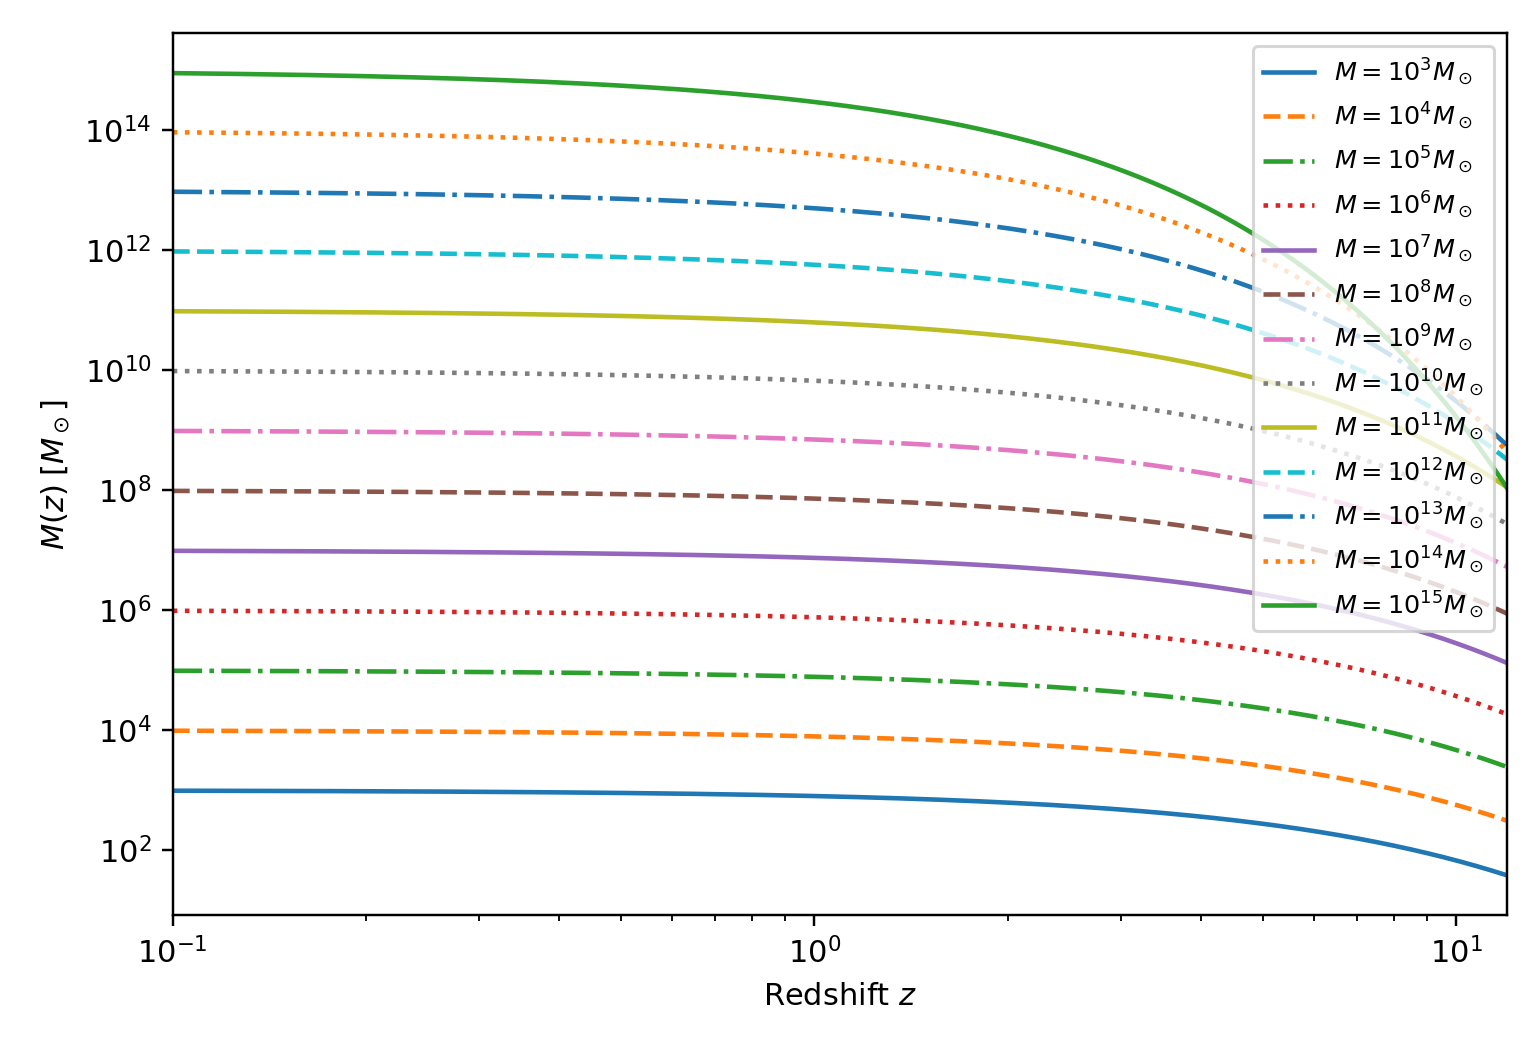
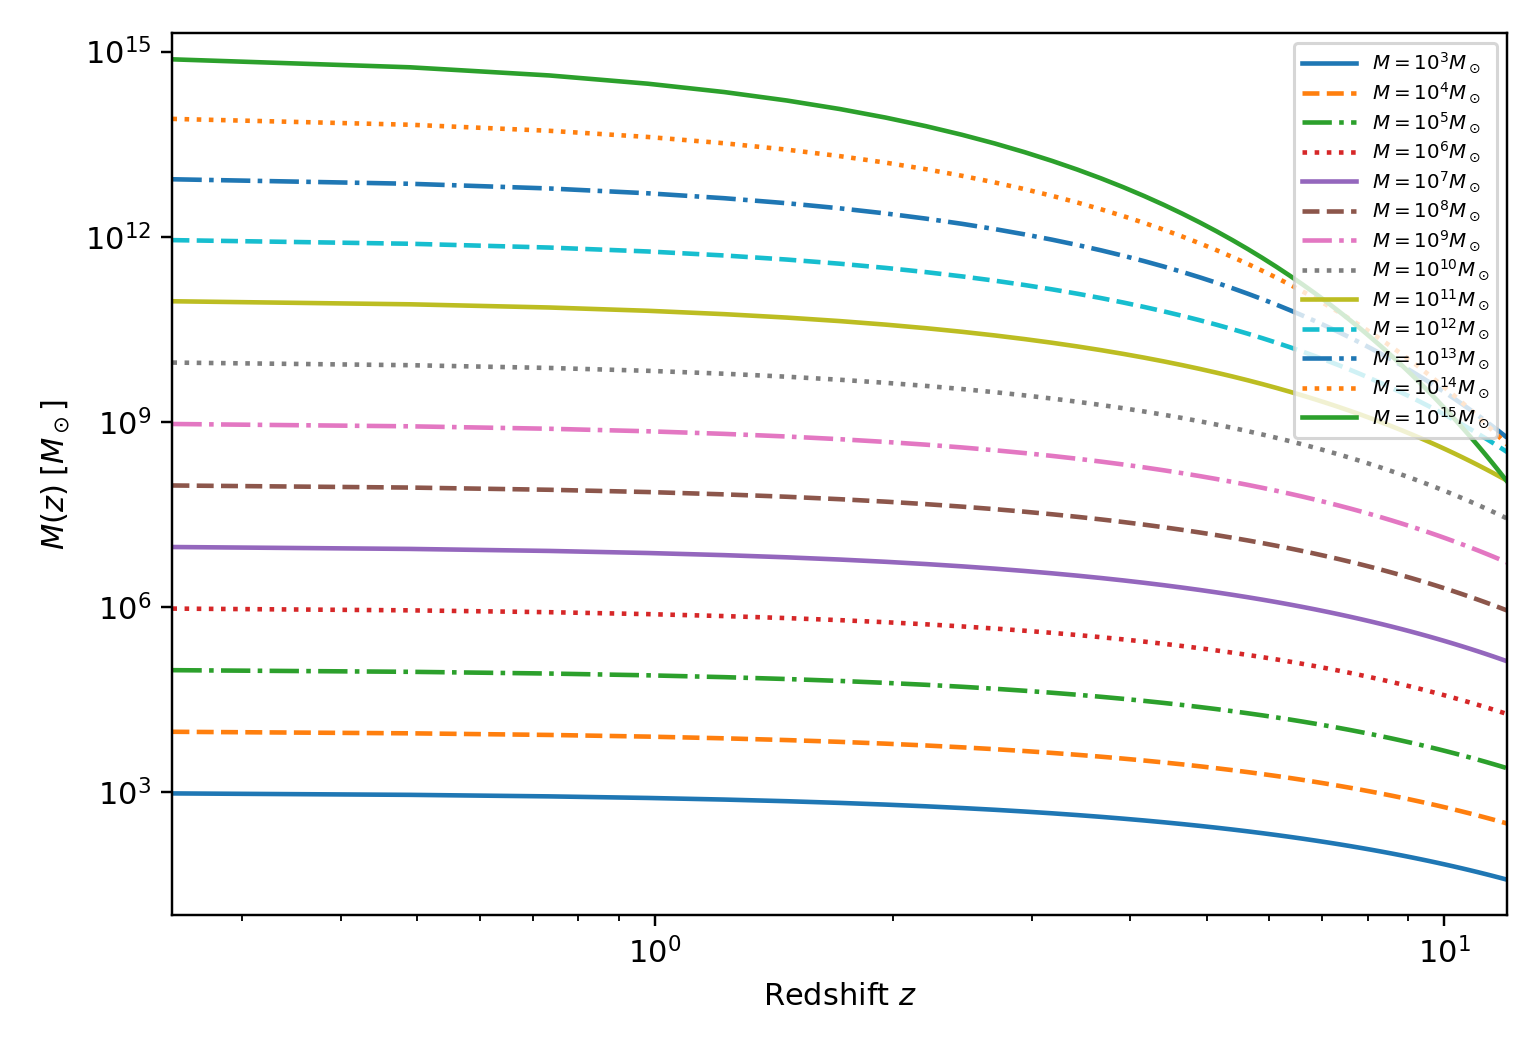
9.10日阶段任务启动

diff --git a/halohistory.py b/halohistory.py
@@ -6,7 +6,7 @@
 当前阶段完成三件事：
 
 1. 为 Fig. 9 的一组现今晕质量计算 M(z)；
-2. 使用该数据矩阵绘制并保存 Fig. 9。
+2. 使用该数据矩阵绘制并保存 Fig. 9；
 3. 计算同一批晕的 C(z)、R_vir(z) 与 R_s(z)。
 
 这里没有自动自检、断言或测试模块。
@@ -89,31 +89,57 @@ def calculate_mass_accretion_tracks(
 
 
 def make_figure9(output_directory):
-    """使用质量吸积轨迹矩阵绘制并保存论文 Fig. 9。"""
+    """使用质量吸积轨迹矩阵绘制并保存论文 Fig. 9 及对应数据。"""
     output_directory = Path(output_directory)
-    z = np.geomspace(0.1, 12.0, 400)
+
+    # 原图的矢量路径包含 z=0 加上 49 个等间距的正红移点，范围到 z=12。
+    # z=0 对确认 M(0)=M0 很重要，因此保留在 CSV 中；但 log(0) 不存在，
+    # 所以绘图时只使用 positive_redshift 选出的 49 个正红移点。
+    z = np.linspace(0.0, 12.0, 50)
     mass_tracks_msun = calculate_mass_accretion_tracks(z)
+    positive_redshift = z > 0.0
 
     figure, axis = plt.subplots(figsize=(7.0, 4.8))
     line_styles = ("-", "--", "-.", ":")
     for index, mass0_msun in enumerate(FIG9_PRESENT_DAY_MASSES_MSUN):
         exponent = int(np.log10(mass0_msun))
         axis.plot(
-            z,
-            mass_tracks_msun[index],
+            z[positive_redshift],
+            mass_tracks_msun[index, positive_redshift],
             linestyle=line_styles[index % len(line_styles)],
             label=rf"$M=10^{{{exponent}}}M_\odot$",
         )
 
     axis.set_xscale("log")
     axis.set_yscale("log")
-    axis.set_xlim(0.1, 12.0)
+    axis.set_xlim(z[1], 12.0)
+    axis.set_ylim(1.0e1, 2.0e15)
+    axis.set_yticks(10.0 ** np.arange(3.0, 16.0, 3.0))
     axis.set_xlabel(r"Redshift $z$")
     axis.set_ylabel(r"$M(z)\;[M_\odot]$")
-    axis.legend(loc="upper right", fontsize="small")
+    axis.legend(
+        loc="upper right",
+        fontsize=6.5,
+        handlelength=2.7,
+        labelspacing=0.25,
+    )
     figure.tight_layout()
     figure.savefig(output_directory / "fig9_reproduction.png", dpi=220)
     plt.close(figure)
+
+    # CSV 的第一列是 z，后面 13 列依次对应 M0=10^3--10^15 M_sun。
+    # 转置 mass_tracks_msun 后，每一行才会对应同一个红移，便于逐行读取。
+    mass_columns = [
+        f"mass_M0_{mass0_msun:.0e}_msun"
+        for mass0_msun in FIG9_PRESENT_DAY_MASSES_MSUN
+    ]
+    np.savetxt(
+        output_directory / "fig9_reproduction.csv",
+        np.column_stack((z, mass_tracks_msun.T)),
+        delimiter=",",
+        header=",".join(["z", *mass_columns]),
+        comments="",
+    )
     return z, mass_tracks_msun
 
 
@@ -137,15 +163,24 @@ def calculate_halo_structure_tracks(
     )
 
     cosmology = hc.LUDLOW_COSMOLOGY
+
+    # H0=100 h km/s/Mpc。因为 1 Mpc=1000 kpc，所以换成 km/s/kpc 后
+    # H0=0.1 h；再乘 E(z) 得到同一红移的 H(z)。
     hubble_km_s_kpc = 0.1 * cosmology["h"] * np.sqrt(
         cosmology["omega_m0"] * (1.0 + redshift_grid) ** 3
         + cosmology["omega_lambda0"]
     )
+
+    # 临界密度 rho_crit(z)=3 H(z)^2/(8 pi G)。当前 H 和 G 的单位组合
+    # 会让 rho_crit 直接得到 M_sun/kpc^3，不需要额外长度或质量换算。
     critical_density_msun_kpc3 = (
         3.0
         * hubble_km_s_kpc**2
         / (8.0 * np.pi * GRAVITATIONAL_CONSTANT_KPC_KM2_S2_MSUN)
     )
+
+    # M_200c=(4 pi/3)*200*rho_crit*R_vir^3，反解得到 R_vir；
+    # 浓度定义 C=R_vir/R_s，因此 R_s=R_vir/C。
     virial_radius_kpc = np.cbrt(
         3.0
         * mass_tracks_msun
@@ -162,9 +197,10 @@ def calculate_halo_structure_tracks(
 
 
 def main():
-    """生成 Fig. 9。"""
+    """生成 Fig. 9 及其曲线数据。"""
     make_figure9(Path(__file__).resolve().parent)
     print("Created fig9_reproduction.png")
+    print("Created fig9_reproduction.csv")
 
 
 if __name__ == "__main__":

diff --git a/halostructure.py b/halostructure.py
@@ -1,0 +1,63 @@
+"""NFW 暗物质晕结构：9 月 10 日阶段的逐步实现。
+
+本模块接收前两阶段已经得到的晕质量、浓度和红移，逐步构造：
+
+    (M, C, z) -> (R_vir, R_s, rho_s) -> rho_NFW(r) -> M(<r)
+
+当前第一小步只实现论文 Eq. (2) 的 NFW 特征密度对比。密度剖面、内部质量、
+PBH 速度分布和两体捕获率将在理解相应公式后逐个加入。
+
+这里没有自动自检、断言或独立测试模块。
+"""
+
+import numpy as np
+
+import haloconcentration as hc
+
+
+def nfw_characteristic_overdensity(concentration, virial_overdensity=200.0):
+    """返回 NFW 尺度密度相对于临界密度的无量纲比值。
+
+    论文 Eqs. (2)--(3) 为
+
+        delta_NFW(C) = (Delta / 3) * C**3 / g(C),
+        g(C) = ln(1 + C) - C/(1 + C),
+
+    其中论文采用 ``Delta=200``。因此尺度密度最终可以写成
+
+        rho_s(z) = rho_crit(z) * delta_NFW(C).
+
+    Parameters
+    ----------
+    concentration : float 或 array-like
+        NFW 浓度 C=R_vir/R_s。它是无量纲量。
+    virial_overdensity : float, optional
+        virial 半径定义中的平均密度倍数 Delta，默认使用论文的 200。
+
+    Returns
+    -------
+    delta_nfw : numpy.ndarray
+        NFW 特征密度对比，是无量纲量。输入可以是单个浓度或浓度数组。
+
+    Notes
+    -----
+    这里的 ``delta_nfw`` 不是峰高公式中的球形坍缩阈值
+    ``delta_sc = 1.686``。两者虽然都常被文献写成 delta_c，却描述完全不同的量。
+    """
+    concentration = np.asarray(concentration, dtype=float)
+
+    # g(C) 已在 haloconcentration.py 中实现。直接调用它可以确保浓度模块、
+    # 质量吸积模块与这里使用完全相同的 NFW 质量积分函数，而不是复制一份公式。
+    mass_integral_factor = hc.nfw_g(concentration)
+
+    # 从 M_vir=4*pi*rho_s*R_s^3*g(C) 与
+    # M_vir=(4*pi/3)*Delta*rho_crit*(C*R_s)^3 对比即可得到本式。
+    return (
+        virial_overdensity
+        * concentration**3
+        / (3.0 * mass_integral_factor)
+    )
+
+
+# TODO（下一小步）：实现 rho_crit(z) 和 rho_s(C,z)。
+# TODO（之后）：实现 rho_NFW(r)、M(<r)、特征速度和截断 Maxwell 分布。

diff --git a/晕模型-pbh晕内速度分布.md b/晕模型-pbh晕内速度分布.md
@@ -917,6 +917,95 @@ $$
 \text{重新进行联合的 }(r,v)\text{ 积分}.
 $$
 
+### 7.8 用速度尺度因子检验公式 (9) 的定义敏感性
+
+在进入 Jeans 或 Eddington 的完整径向模型以前，可以先做一个计算成本很低的敏感性检验。把论文公式 (9) 推广为
+
+$$
+\boxed{
+v_{\rm disp}(\kappa)=\kappa V_{\max}
+},
+$$
+
+并依次取
+
+$$
+\kappa=1,\quad \sqrt{2},\quad 2.
+$$
+
+这三个取值的含义并不相同：
+
+| $\kappa$ | 对应的解释 | 在复现中的角色 |
+|---:|---|---|
+| $1$ | 直接采用目标论文的 $v_{\rm disp}=V_{\max}$ | 论文原始基线，必须保留 |
+| $\sqrt{2}$ | 把 $V_{\max}$ 解释为单粒子 Maxwell 指数尺度；两个独立单粒子的相对速度尺度比它大 $\sqrt{2}$ | 首选的参数定义敏感性分支 |
+| $2$ | 把 $V_{\max}$ 字面解释为单粒子的一维标准差；相对速度 Maxwell 指数尺度为 $2\sigma_{1{\rm D}}$ | 更宽的定义歧义边界 |
+
+第二行也可以从理想等温关系理解。若近似采用
+
+$$
+V_c^2\simeq2\sigma_{1{\rm D}}^2,
+$$
+
+并令 $V_{\max}$ 代表特征圆周速度，则相对速度 Maxwell 指数尺度满足
+
+$$
+v_{\rm disp,rel}=2\sigma_{1{\rm D}}
+\simeq\sqrt{2}V_{\max}.
+$$
+
+但是必须注意，目标论文采用的是带有限上限和减常数项的 lowered Maxwell 分布。截断以后，参数 $v_{\rm disp}$ 不再严格等于分布的实际标准差；两个截断单粒子分布的严格卷积也不再恰好具有论文公式 (7) 的形式。因此，$\kappa=\sqrt{2}$ 和 $2$ 应被称为**定义敏感性检验**，不能直接称为已经证明的物理修正。
+
+每改变一次 $\kappa$，都必须用新的 $v_{\rm disp}(\kappa)$ 重新计算截断分布的归一化常数以及速度负矩，而不能只在最终俘获率上乘一个常数。可以定义
+
+$$
+\mathcal M_{-11/7}(\kappa)
+=
+\int_0^{v_{\rm vir}}
+P(v;\kappa)v^{-11/7}\,dv,
+$$
+
+以及相对于论文基线的单晕俘获率比值
+
+$$
+\boxed{
+S_\kappa(M,z)
+=
+\frac{\Gamma_{\rm halo}(\kappa;M,z)}
+{\Gamma_{\rm halo}(1;M,z)}
+}.
+$$
+
+如果暂时忽略 $v_{\rm vir}$ 截断，并把速度分布近似成只改变尺度的同族分布，则有数量级关系
+
+$$
+S_\kappa\approx\kappa^{-11/7}.
+$$
+
+于是
+
+$$
+S_{\sqrt{2}}\approx2^{-11/14}\simeq0.58,
+\qquad
+S_2\approx2^{-11/7}\simeq0.34.
+$$
+
+这表示在上述无截断尺度估计中，相对于较宽的速度分布，$\kappa=1$ 的论文基线可能分别给出约 $1.72$ 倍或 $2.97$ 倍的较高俘获率。实际数值必须使用论文的截断分布重新积分，因为 $v_{\rm vir}/v_{\rm disp}$ 也会随 $\kappa$ 改变。
+
+因此建议把高精度检验顺序写成
+
+$$
+\boxed{
+\begin{aligned}
+&\text{论文基线：}\kappa=1\\
+&\longrightarrow\text{定义敏感性：}\kappa=\sqrt{2},\,2\\
+&\longrightarrow\text{动力学改进：Jeans 或 Eddington 的局域 }P(v\mid r).
+\end{aligned}
+}
+$$
+
+前两步回答的是“公式 (9) 的速度尺度约定会带来多大数值影响”；最后一步才回答“真实晕内径向相空间结构会怎样改变 PBH 俘获率”。
+
 ---
 
 ## 8. 截断速度分布如何进入两体俘获率？

diff --git a/SIMULATING_PBH_MERGERS_精读与复现.md b/SIMULATING_PBH_MERGERS_精读与复现.md
@@ -507,10 +507,10 @@ $\Omega_{m0}$ 替换同时消除差异。
 
 ### 7.5 当前人工对照结果
 
-今天生成：
+当天生成：
 
-- `fig1_reproduction.png`；
-- `fig2_reproduction.png`；
+- `fig1_reproduction(1).png`；
+- `fig2_reproduction(1).png`；
 - 三份相应的 CSV 曲线数据。
 
 关键中间值为
@@ -535,3 +535,72 @@ $$
 Fig. 1 的 $10^{12}M_\odot$ 晕回溯至 $z=12$ 时质量约为
 $3.25\times10^8M_\odot$，与论文图中的数量级一致。当前图已经复现主要曲线
 形状和排序；精确百分比误差将在提取原图锚点后统一计算。
+
+## 八、2026-09-13：9月9日质量吸积史阶段验收
+
+本阶段代码位于 `halohistory.py`，并调用 `haloconcentration.py` 中已经完成的
+Ludlow16 浓度和 Appendix C 质量吸积函数，没有复制第二份浓度模型。
+
+### 8.1 已完成的计算链
+
+对于给定的现今质量 $M_0$ 和红移数组，代码依次计算
+
+$$
+M_0\longrightarrow (z_{-2},\alpha,\beta)
+\longrightarrow M(z)\longrightarrow C[M(z),z]
+\longrightarrow R_{\rm vir}(z)\longrightarrow R_s(z).
+$$
+
+其中
+
+$$
+H(z)=H_0\sqrt{\Omega_{m0}(1+z)^3+\Omega_{\Lambda0}},
+\qquad
+\rho_{\rm crit}(z)=\frac{3H(z)^2}{8\pi G},
+$$
+
+$$
+R_{\rm vir}(z)=
+\left[\frac{3M(z)}{4\pi\,200\rho_{\rm crit}(z)}\right]^{1/3},
+\qquad
+R_s(z)=\frac{R_{\rm vir}(z)}{C[M(z),z]}.
+$$
+
+公开输入质量使用 $M_\odot$，半径输出使用 kpc。代码中的
+$G=4.30091\times10^{-6}\,{\rm kpc}\,({\rm km/s})^2M_\odot^{-1}$，并把
+$H_0=100h\,{\rm km\,s^{-1}\,Mpc^{-1}}$ 换成
+$0.1h\,{\rm km\,s^{-1}\,kpc^{-1}}$，所以临界密度直接以
+$M_\odot/{\rm kpc}^3$ 表示。
+
+### 8.2 Fig. 9 与人工数值锚点
+
+`make_figure9` 使用 $M_0=10^3,10^4,\ldots,10^{15}M_\odot$，保存
+`fig9_reproduction.png` 和唯一一份对应的 `fig9_reproduction.csv`。CSV 保留
+$z=0$，图上的对数横轴只绘制 49 个正红移点，直至 $z=12$。
+
+以 $M_0=10^{12}M_\odot$ 为人工锚点，当前公开公式实现给出
+
+$$
+z_{-2}=3.183657,\qquad \alpha=0.223113,\qquad \beta=-0.717076,
+$$
+
+$$
+C(0)=8.71031,\qquad
+R_{\rm vir}(0)=210.72\ {\rm kpc},\qquad
+R_s(0)=24.19\ {\rm kpc}.
+$$
+
+$R_{\rm vir}(0)$ 与论文 Table I 所列约 $211$ kpc 一致；同时
+$C(0)R_s(0)=R_{\rm vir}(0)$。沿单条轨迹回溯时 $M(z)$ 总体下降，并且所有输出
+保持正值。
+
+### 8.3 阶段结论与复现边界
+
+9月9日要求的 Appendix C 参数、$M(z)$、Fig. 9，以及
+$M\rightarrow C\rightarrow R_{\rm vir}\rightarrow R_s$ 数据流已经实现并实际运行。
+因此本阶段在“论文公开公式与可复用代码”层面完成。
+
+但不能把它表述成 Fig. 9 的逐点精确复现：第 7.4.1 节已经证明，原图高质量端
+反求出的 $\alpha,\beta$ 与当前宇宙学下的印刷公式 C1--C3 不能同时一致。代码保留
+公开公式，不采用逐红移排序或未经来源确认的高质量参数去强行贴图。该差异作为
+明确的复现误差边界保留，等待作者代码或进一步来源证据。

diff --git a/晕模型.md b/晕模型.md
@@ -103,6 +103,18 @@ $$\rho_s=\rho_{\mathrm{crit}}(z)\delta_c,$$
 
 $$\delta_c=\frac{200C^3}{3g(C)}.$$
 
+这里必须先区分两个容易被同一个字母混淆的量：
+
+- 本节 Eq. (2) 的 $\delta_c$ 是 **NFW 特征密度对比**，它由浓度 $C$ 决定，
+  一般远大于 1；下文也可将它记成 $\delta_{\rm NFW}$；
+- 峰高 $\nu$ 中的 $\delta_{\rm sc}\simeq1.686$ 是 **线性球形坍缩阈值**。
+
+二者不是同一个物理量。目标论文紧邻使用了 $\delta_c$ 与 $\delta_{\rm sc}$，并把
+前者称为 linear overdensity threshold，容易造成误读；但 Eq. (2) 的数学定义及
+$\rho_s=\rho_{\rm crit}\delta_c$ 已经表明它是 NFW 尺度密度的无量纲归一化。
+代码因此使用完整名称 `nfw_characteristic_overdensity`，不使用含混的
+`delta_c` 作为变量名。
+
 原因是 $R_{\mathrm{vir}}$ 被定义为平均密度达到
 
 $$\bar\rho(<R_{\mathrm{vir}})=200\rho_{\mathrm{crit}}$$
